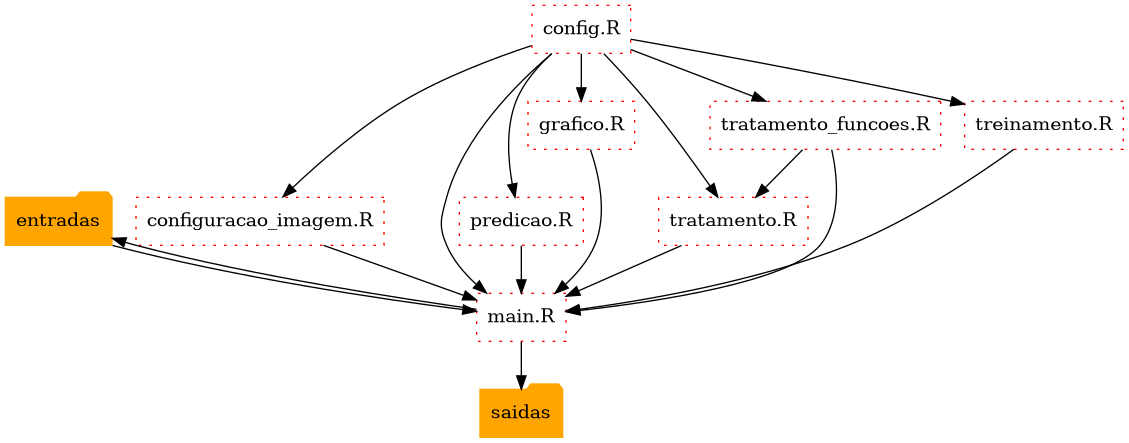
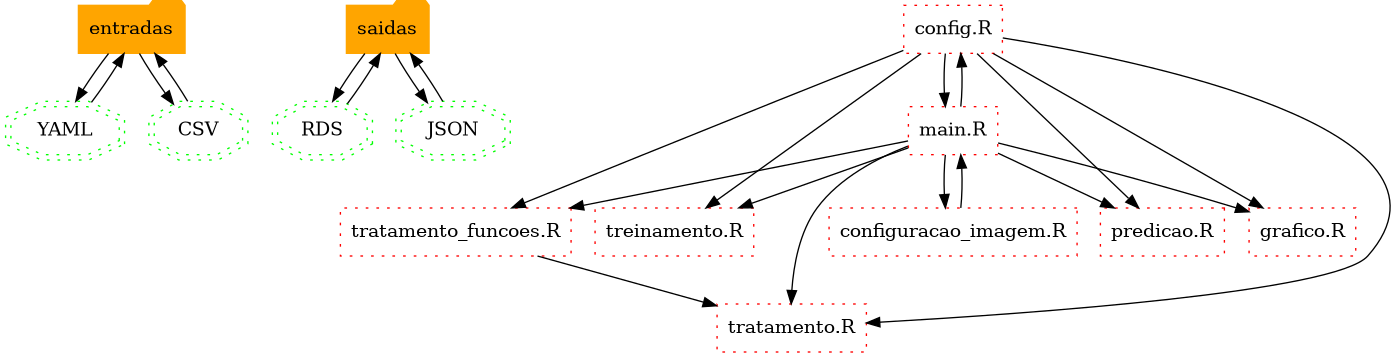
Versão: 04-09-2024 - 22:25

diff --git a/README.md b/README.md
@@ -27,7 +27,7 @@ Pastas de Iterações:
 
 A lógica do repositório pode ser visto logo abaixo:
 
-![Grafo de Lógica](imagens_instrucoes/grafo_organizacao.png)
+![Grafo de Lógica](imagens_instrucoes/grafo_logica.png)
 
 A organização do repositório pode ser visto logo abaixo:
 
